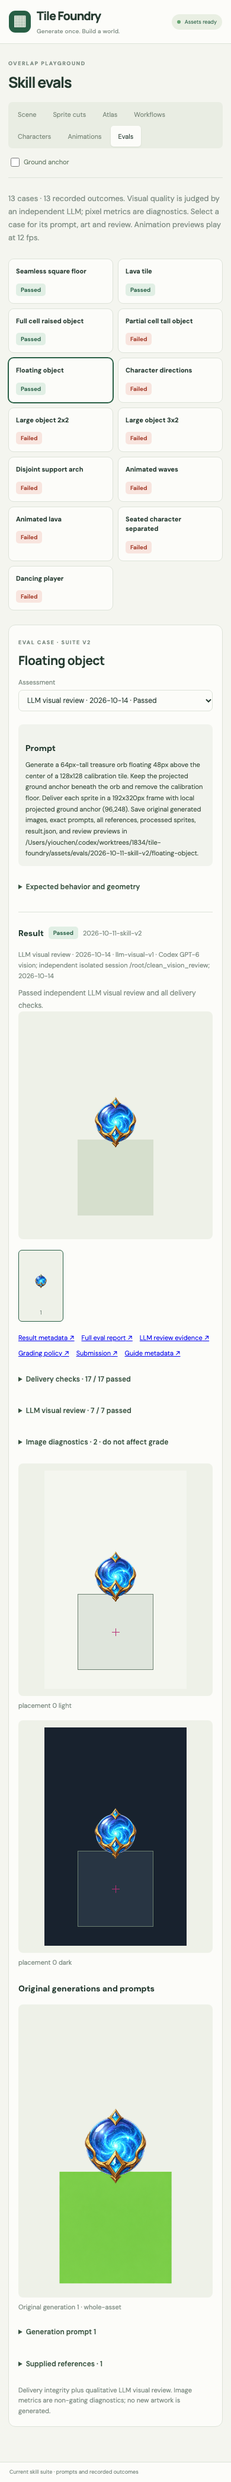
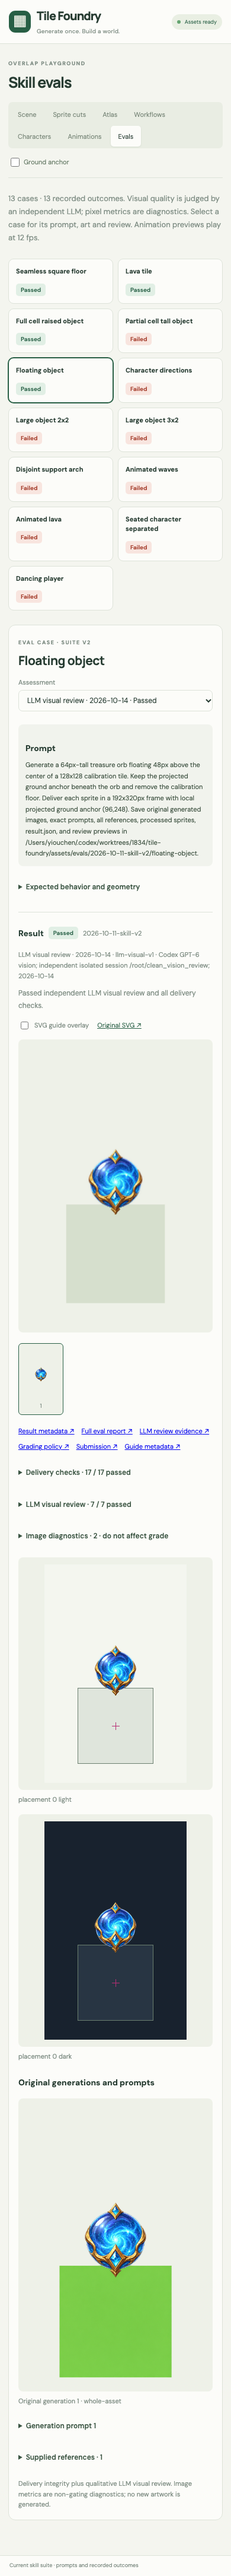
Overlay original SVG guides on registered eval results

diff --git a/src/EvalLab.jsx b/src/EvalLab.jsx
@@ -6,7 +6,7 @@ const labels = {'not-run':'Not run',passed:'Passed',failed:'Failed',blocked:'Blo
 const statusOf = entry => entry.latest?.status || 'not-run';
 const statusLabel = status => labels[status] || status;
 
-function SpritePreview({sprites, active, compose, showAnchors}) {
+function SpritePreview({sprites, active, compose, showAnchors, guide, showGuide, guideOpacity}) {
   const ref = useRef(null);
   const [error, setError] = useState('');
   useEffect(() => {
@@ -14,16 +14,23 @@ function SpritePreview({sprites, active, compose, showAnchors}) {
     const canvas = ref.current;
     canvas.dataset.ready = 'false';
     setError('');
-    Promise.all(sprites.map(sprite => new Promise((resolve,reject) => {
-      const image = new Image(); image.src = base+sprite.image;
+    const renderGuide = showGuide && guide;
+    Promise.all([...sprites,...(renderGuide?[guide]:[])].map(asset => new Promise((resolve,reject) => {
+      const image = new Image(); image.src = base+asset.image;
       image.onload = () => resolve(image); image.onerror = () => reject(Error('Could not load the recorded sprite.'));
-    }))).then(images => {
+    }))).then(loaded => {
       if (!alive) return;
+      const images = loaded.slice(0,sprites.length), guideImage = renderGuide&&loaded[sprites.length];
+      if(guideImage&&(guideImage.width!==guide.size[0]||guideImage.height!==guide.size[1])){
+        throw Error('The SVG dimensions differ from its recorded frame; overlay cannot be aligned safely.');
+      }
       // Preserve complete registered frames around a shared root, without alpha fitting.
-      const left = Math.min(...sprites.map(s=>-s.anchor[0]));
-      const top = Math.min(...sprites.map(s=>-s.anchor[1]));
-      const right = Math.max(...sprites.map((s,i)=>images[i].width-s.anchor[0]));
-      const bottom = Math.max(...sprites.map((s,i)=>images[i].height-s.anchor[1]));
+      const frames = sprites.map((s,i)=>({...s,size:[images[i].width,images[i].height]}));
+      if(guide)frames.push(guide);
+      const left = Math.min(...frames.map(s=>-s.anchor[0]));
+      const top = Math.min(...frames.map(s=>-s.anchor[1]));
+      const right = Math.max(...frames.map(s=>s.size[0]-s.anchor[0]));
+      const bottom = Math.max(...frames.map(s=>s.size[1]-s.anchor[1]));
       const margin = 24, root = [margin-left,margin-top];
       canvas.width = right-left+2*margin; canvas.height = bottom-top+2*margin;
       const ctx = canvas.getContext('2d');
@@ -32,16 +39,23 @@ function SpritePreview({sprites, active, compose, showAnchors}) {
       ctx.fillStyle = '#d6dfcd';
       ctx.fillRect(root[0]-footprint[0]/2,root[1]-footprint[1]/2,...footprint);
       (compose ? sprites.map((_,i)=>i) : [active]).forEach(i=>ctx.drawImage(images[i],root[0]-sprites[i].anchor[0],root[1]-sprites[i].anchor[1]));
-      if(showAnchors){
+      if(guideImage){
+        ctx.save();ctx.globalAlpha=guideOpacity/100;
+        ctx.drawImage(guideImage,root[0]-guide.anchor[0],root[1]-guide.anchor[1]);ctx.restore();
+      }
+      if(showAnchors||guideImage){
         ctx.strokeStyle = '#c03d80';ctx.lineWidth = 1;
         ctx.beginPath();ctx.moveTo(root[0]-8,root[1]);ctx.lineTo(root[0]+8,root[1]);
         ctx.moveTo(root[0],root[1]-8);ctx.lineTo(root[0],root[1]+8);ctx.stroke();
       }
       canvas.dataset.ready = 'true';canvas.dataset.frame = String(active);
       canvas.dataset.anchor = sprites[active].anchor.join(',');
+      canvas.dataset.guideOverlay = guideImage?'true':'false';
+      canvas.dataset.guideOpacity = String(guideOpacity);
+      canvas.dataset.guideAnchor = guide?.anchor.join(',')||'';
     }).catch(e=>alive&&setError(e.message));
     return () => {alive=false;};
-  },[sprites,active,compose,showAnchors]);
+  },[sprites,active,compose,showAnchors,guide,showGuide,guideOpacity]);
   return <>{error&&<p role="alert">{error}</p>}<canvas ref={ref} className="eval-sprite-preview" aria-label="Recorded sprites at their stored ground anchor"/></>;
 }
 
@@ -64,7 +78,16 @@ function Diagnostics({checks=[]}) {
 
 function TrialResult({trial, entry, showAnchors}) {
   const [frame,setFrame] = useState(0), [playing,setPlaying] = useState(false), [compose,setCompose] = useState(entry.kind==='layered');
+  const [showGuide,setShowGuide] = useState(()=>new URLSearchParams(window.location.search).get('overlay')==='svg');
+  const [guideOpacity,setGuideOpacity] = useState(65);
   const sprites = trial.sprites;
+  const guide = trial.guideOverlay;
+  const toggleGuide = value => {
+    setShowGuide(value);
+    const url=new URL(window.location.href);
+    if(value)url.searchParams.set('overlay','svg');else url.searchParams.delete('overlay');
+    window.history.replaceState(null,'',url);
+  };
   useEffect(() => {
     if(!playing||!sprites.length)return;
     const timer = setTimeout(()=>setFrame(i=>(i+1)%sprites.length),1000/12);
@@ -75,7 +98,15 @@ function TrialResult({trial, entry, showAnchors}) {
     <p className="lab-scope" data-eval-policy={trial.policy||'original'}>{trial.assessmentLabel}{trial.assessedAt&&` · ${trial.assessedAt}`}{trial.policy&&` · ${trial.policy}`}{trial.reviewer&&` · ${trial.reviewer}`}</p>
     {trial.reason&&<p className="eval-failure">{trial.reason}</p>}
     {sprites.length>0?<>
-      <div className="eval-render"><SpritePreview sprites={sprites} active={frame} compose={compose} showAnchors={showAnchors}/></div>
+      <div className={'eval-overlay-comparison'+(guide?' has-svg-guide':'')}>
+        {guide&&<div className="eval-overlay-controls">
+          <label><input type="checkbox" checked={showGuide} onChange={e=>toggleGuide(e.target.checked)}/> SVG guide overlay</label>
+          {showGuide&&<label>Opacity<input aria-label="SVG overlay opacity" type="range" min="10" max="100" step="5" value={guideOpacity} onChange={e=>setGuideOpacity(Number(e.target.value))}/><output>{guideOpacity}%</output></label>}
+          <a href={base+guide.image} target="_blank" rel="noreferrer">Original SVG ↗</a>
+        </div>}
+        <div className="eval-render"><SpritePreview sprites={sprites} active={frame} compose={compose} showAnchors={showAnchors} guide={guide} showGuide={showGuide} guideOpacity={guideOpacity}/></div>
+        {guide&&showGuide&&<p className="eval-overlay-caption">Original SVG at the same ground center and cell scale.{guide.heightPx!=null&&` Guide height: ${guide.heightPx}px above the ground center.`}{guide.baseSize&&` Base: ${guide.baseSize.join(' × ')}px.`} The green square is the calibration floor; the cross marks the shared ground anchor.</p>}
+      </div>
       {sprites.length>1&&<div className="eval-frame-controls">
         {entry.kind==='animation'&&<button className="secondary-button" onClick={()=>setPlaying(p=>!p)}>{playing?'Pause':'Play'} · 12 fps</button>}
         {entry.kind==='layered'&&<label><input type="checkbox" checked={compose} onChange={e=>setCompose(e.target.checked)}/> Recompose layers at stored anchors</label>}

diff --git a/src/style.css b/src/style.css
@@ -26,6 +26,7 @@
 .eval-result-heading{display:flex;flex-wrap:wrap;align-items:center;gap:12px;margin-bottom:18px;font-size:11px;color:var(--muted)}.eval-result-heading h4{margin:0;color:#294137}
 .eval-render{background:#eef1e8;border-radius:8px;padding:16px;display:flex;justify-content:center}
 .eval-sprite-preview{display:block;max-width:100%;width:auto;max-height:460px;height:auto;object-fit:contain}
+.eval-overlay-controls{display:flex;flex-wrap:wrap;align-items:center;gap:14px;margin:14px 0;font-size:11px;color:var(--muted)}.eval-overlay-controls label{display:flex;align-items:center;gap:7px;min-width:0}.eval-overlay-controls input[type=range]{width:110px}.eval-overlay-controls output{font-variant-numeric:tabular-nums;min-width:30px}.eval-overlay-controls a{color:var(--green)}.has-svg-guide .eval-sprite-preview{width:480px;max-height:none}.eval-overlay-caption{font-size:11px;line-height:1.7;color:var(--muted);margin-top:10px}
 .eval-frame-controls{display:flex;flex-wrap:wrap;gap:14px;align-items:center;margin:14px 0;font-size:11px;color:var(--muted)}.eval-frame-controls .secondary-button{width:auto;padding:8px 18px}.eval-frame-controls label{display:flex;gap:8px;align-items:center}
 .eval-sprite-strip{display:grid;grid-template-columns:repeat(8,minmax(0,1fr));gap:8px;margin-top:18px}
 .eval-sprite-strip button{background:#eef1e8;border:1px solid transparent;border-radius:6px;padding:8px;min-width:0;font-size:10px;color:var(--muted)}.eval-sprite-strip button[aria-pressed=true]{border-color:var(--green)}

diff --git a/tests/test_eval_gallery.py b/tests/test_eval_gallery.py
@@ -77,6 +77,26 @@ class EvalGalleryTests(unittest.TestCase):
         with self.assertRaisesRegex(ValueError,'escapes'):
             self.build()
 
+    def test_svg_overlay_preserves_original_and_explicit_registration(self):
+        self.run_record('2026-01-01',status='failed')
+        directory = self.root/'runs/2026-01-01/floor'
+        layout = {'kind':'object-sheet','cellSize':128,'size':[128,128],
+                  'frame':[128,128],'anchor':[64,64],
+                  'cells':[{'rect':[0,0,128,128]}],
+                  'subjectRegistration':{'height':80,'baseSize':[32,32]}}
+        (directory/'guide.json').write_text(json.dumps(layout))
+        svg = '<svg xmlns="http://www.w3.org/2000/svg" width="128" height="128"><path d="M64 64V8" stroke="blue"/></svg>'
+        (directory/'guide.svg').write_text(svg)
+        overlay = self.build()['cases'][0]['latest']['guideOverlay']
+        self.assertEqual(overlay['anchor'],[64,64])
+        self.assertEqual(overlay['size'],[128,128])
+        self.assertEqual(overlay['heightPx'],80)
+        self.assertEqual((self.root/'public'/overlay['image']).read_text(),svg)
+        # A multi-panel SVG needs its own declared per-panel mapping.
+        layout['cells'].append({'rect':[0,0,128,128]})
+        (directory/'guide.json').write_text(json.dumps(layout))
+        self.assertNotIn('guideOverlay',self.build()['cases'][0]['latest'])
+
     def test_new_assessment_keeps_original_grade_and_art_separate(self):
         self.run_record('2026-01-01',status='failed')
         run = self.root/'runs/2026-01-01'

diff --git a/tools/build_eval_gallery.py b/tools/build_eval_gallery.py
@@ -105,6 +105,20 @@ def build_gallery(runs_root, suite_path, public, reports_root, include_archived=
                 guide_image = next((p for p in [guide.with_suffix('.png'), directory/'guide.png'] if p.is_file()),None)
                 if guide_image:
                     item['guideImage'] = publish(guide_image)
+                layout = read_json(guide)
+                svg = guide.with_suffix('.svg')
+                size, anchor = layout.get('size'), layout.get('anchor')
+                cells = layout.get('cells',[])
+                # Only a complete single-frame guide has an unambiguous 1:1
+                # overlay. Never fit a source sheet or infer a transform from art.
+                if (svg.is_file() and layout.get('kind') == 'object-sheet' and
+                    layout.get('cellSize') == 128 and size == layout.get('frame') and
+                    isinstance(size,list) and len(size)==2 and
+                    isinstance(anchor,list) and len(anchor)==2 and len(cells)==1 and
+                    cells[0].get('rect') == [0,0,*size]):
+                    subject = layout.get('subjectRegistration',{})
+                    item['guideOverlay'] = {'image':publish(svg),'size':size,'anchor':anchor,
+                        'heightPx':subject.get('height'),'baseSize':subject.get('baseSize')}
                 for name in submission.get('previews',[]):
                     if Path(name).suffix.lower() not in ('.png','.jpg','.jpeg','.webp','.gif','.svg'):
                         continue

diff --git a/README.md b/README.md
@@ -92,6 +92,7 @@ subcommand for input options. Output paths are explicit; originals are not repla
 - Workflows: five trials side by side, block versus sphere style references, measured joins, SVG outline, live material/height controls, and a mixed-height scene.
 - Characters: box, stick, SVG, raster, and jumping guides; floor-derived normalization, five green-key cutouts, two detached extractions, and exact-subtraction comparisons.
 - Evals: all 13 current cases with exact requests, expanded model prompts, supplied references, originals, processed sprites, recorded grades and review/processing diagnostics. Latest outcomes include failures. Open `?view=evals`, or link directly with `&case=CASE_ID`.
+- Single-frame SVG guides can be overlaid on processed results at their recorded ground center and cell scale. Adjust opacity or open the original SVG; add `&overlay=svg` to share the comparison.
 - Animations: the three current motion cases, including failed generation/processing results and 12 fps previews where runtime frames exist. Historical lava/dance artifacts are retained in the repository archive and removed from the playground.
 
 ## Netlify publishing
